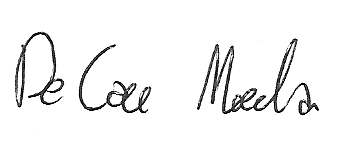
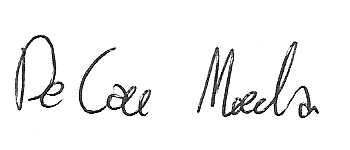
sistemata foto a 350x150 e modifiche minori NdP

diff --git a/doc/1_RR/interni/NormeDiProgetto/NormeDiProgetto3.tex b/doc/1_RR/interni/NormeDiProgetto/NormeDiProgetto3.tex
@@ -149,7 +149,7 @@ Definisce le attività e i task attraverso i quali il fornitore comunica al comm
 Consiste nel redigere lo \SdF, \PdQ, e il \PdP.
 
 \subsubsection{Studio di fattibilità}
-È compito degli Analisti redigere uno \SdF\ in cui per ogni capitolato bisogna individuare:
+È compito degli \ANpl redigere uno \SdF\ in cui per ogni capitolato bisogna individuare:
 \begin{itemize}
 	\item Aspetti positivi
 	\item Fattori di rischio
@@ -675,7 +675,7 @@ Il processo di verifica viene instanziato nel momento in cui l'output di un proc
 	\item \textbf{Verifica del glossario:} La redazione del glossario è automatizzata. Il \VR{} dovrà quindi solo controllare che tutte le voci del glossario abbiano una definizione e che tutte le parole che sono definite nel glossario siano marcate con una G a pedice \TODO{tool di controllo}
 	\item \textbf{Calcolo dell’indice \mgls{gulpease}:} Su ogni documento redatto il \VR\ deve calcolare l’indice di leggibilità. Per fare ciò segnala l'utilizzo del applicazione web \url{http://labs.translated.net/leggibilita-testo/}. Nel caso in cui il testo risultasse difficile, sarà necessario eseguire un walkthrough del documento alla ricerca delle frasi troppo lunghe o complesse
 	\item \textbf{Miglioramento del processo di verifica:} Quando i \VRpl{} eseguono \mgls{walkthrough} di un documento, dovranno riportare gli errori più frequentemente trovati. Grazie a tale pratica sarà possibile eseguire \mgls{inspection} su tali errori nelle verifiche future
-	\item \textbf{Segnalazione degli errori riscontrati:} Attenendosi a quanto riportato nella tabella \ref{tabCalssificazioneProb} il \VR{} deve generare dei \mglspl{ticket} secondo quando descritto nella sezione \ref{ticket}
+	\item \textbf{Segnalazione degli errori riscontrati:} Attenendosi a quanto riportato nella tabella \ref{tabCalssificazioneProb} il \VR{} deve generare dei \mglspl{ticket} secondo quando descritto nella sezione \ref{gestioneDeiProblemi}
 \end{itemize}
 
 \subsubsection{Analisi statica}
@@ -1064,7 +1064,7 @@ La seguente lista vuole riassumere invece gli  errori più frequenti rilevati du
 	%\item la \mgls{checkbox} \mgls{appointed} deve essere spuntata solo nei requisiti opzionali e desiderabili presi in carico;
 	\item devono essere impostate le corrette relazioni di parentela tra requisiti in \mgls{tracy}; 
 	\item devono essere impostate le corrette relazioni di parentela tra casi d’uso in \mgls{tracy}; 
-	\item in \mgls{tracy} deve essere indicato almeno un attore in ogni caso d’uso; 
+	\item in \mgls{tracy} deve essere indicato almeno un attore in ogni caso d’uso;
 	\item controllare in \mgls{tracy} che le fonti dei requisiti siano le fonti corrette; 
 	\item i codici dei casi d’uso nei diagrammi e in \mgls{tracy} devono corrispondere.
 \end{itemize}
